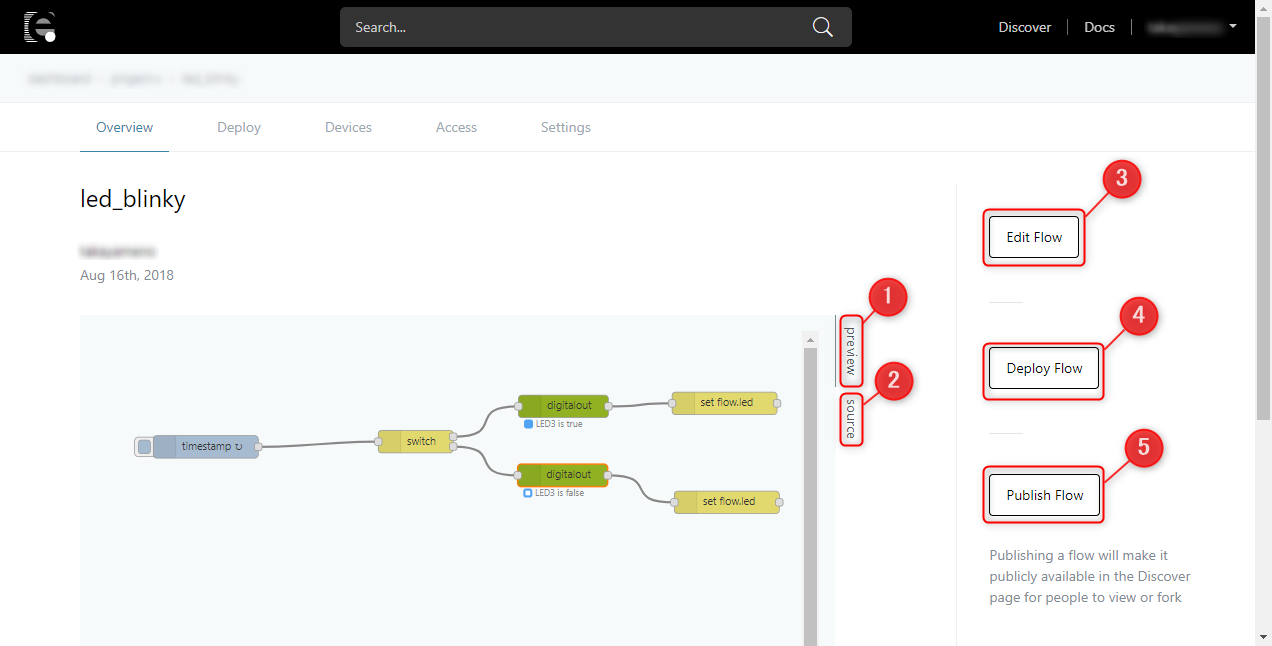
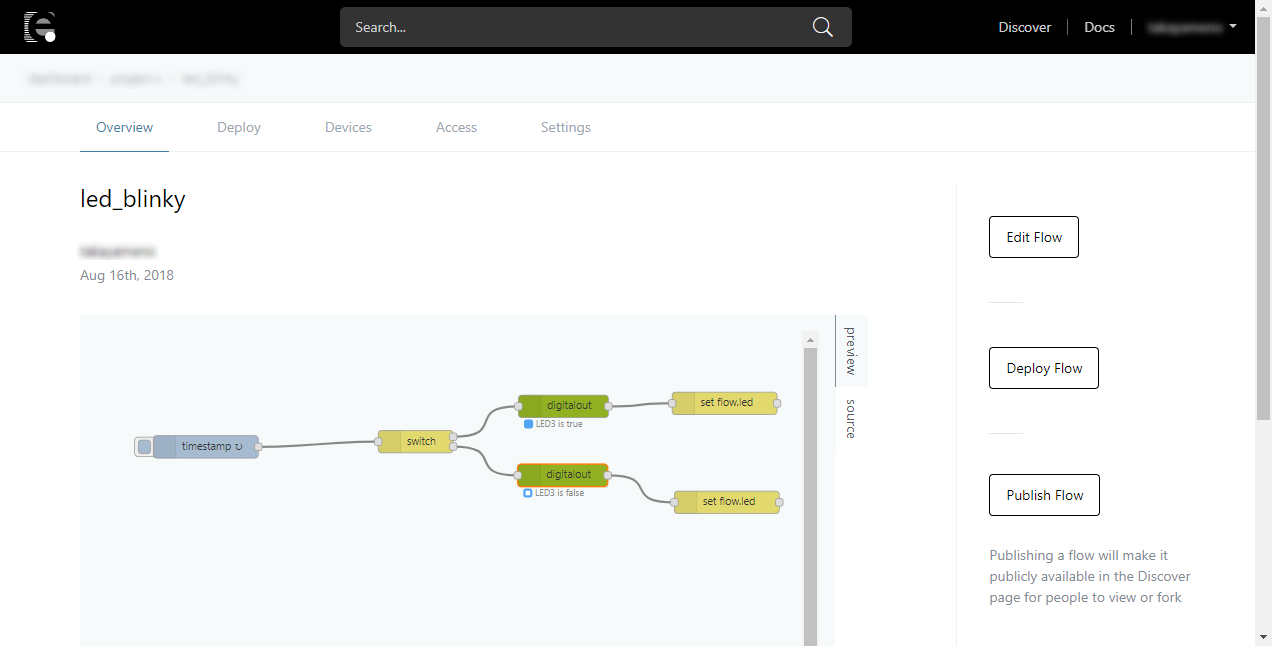
Revert "指摘事項修正"
This reverts commit 57f19c5452b784a16a98e480d47acf444e45c273.

diff --git a/en/Flow/Introduction.md b/en/Flow/Introduction.md
@@ -28,13 +28,13 @@ You can edit, deploy and publish the flows from the overview.
 
 Descriptions are as shown below:
 
-| No. | Item | description |
-| --- | --- | --- |
-| 1 | preview | The screen shots of the flows you created are displayed. |
-| 2 | source | The JSON string of the flows you created are displayed. |
-| 3 | Edit Flow | You can edit the flows. |
-| 4 | Deploy Flow | You can deploy the flows to other services. See Deploy section for more information. |
-| 5 | Publish Flow | You can publish the flows. See [Publish Flow](./PublishFlow.md) for more information. |
+| Item | description |
+| --- | --- |
+| preview | The screen shots of the flows you created are displayed. |
+| source | The JSON string of the flows you created are displayed. |
+| Edit Flow | You can edit the flows. |
+| Deploy Flow | You can deploy the flows to other services. See Deploy section for more information. |
+| Publish Flow | You can publish the flows. See [Publish Flow](./PublishFlow.md) for more information. |
 
 ## Deploy
 
